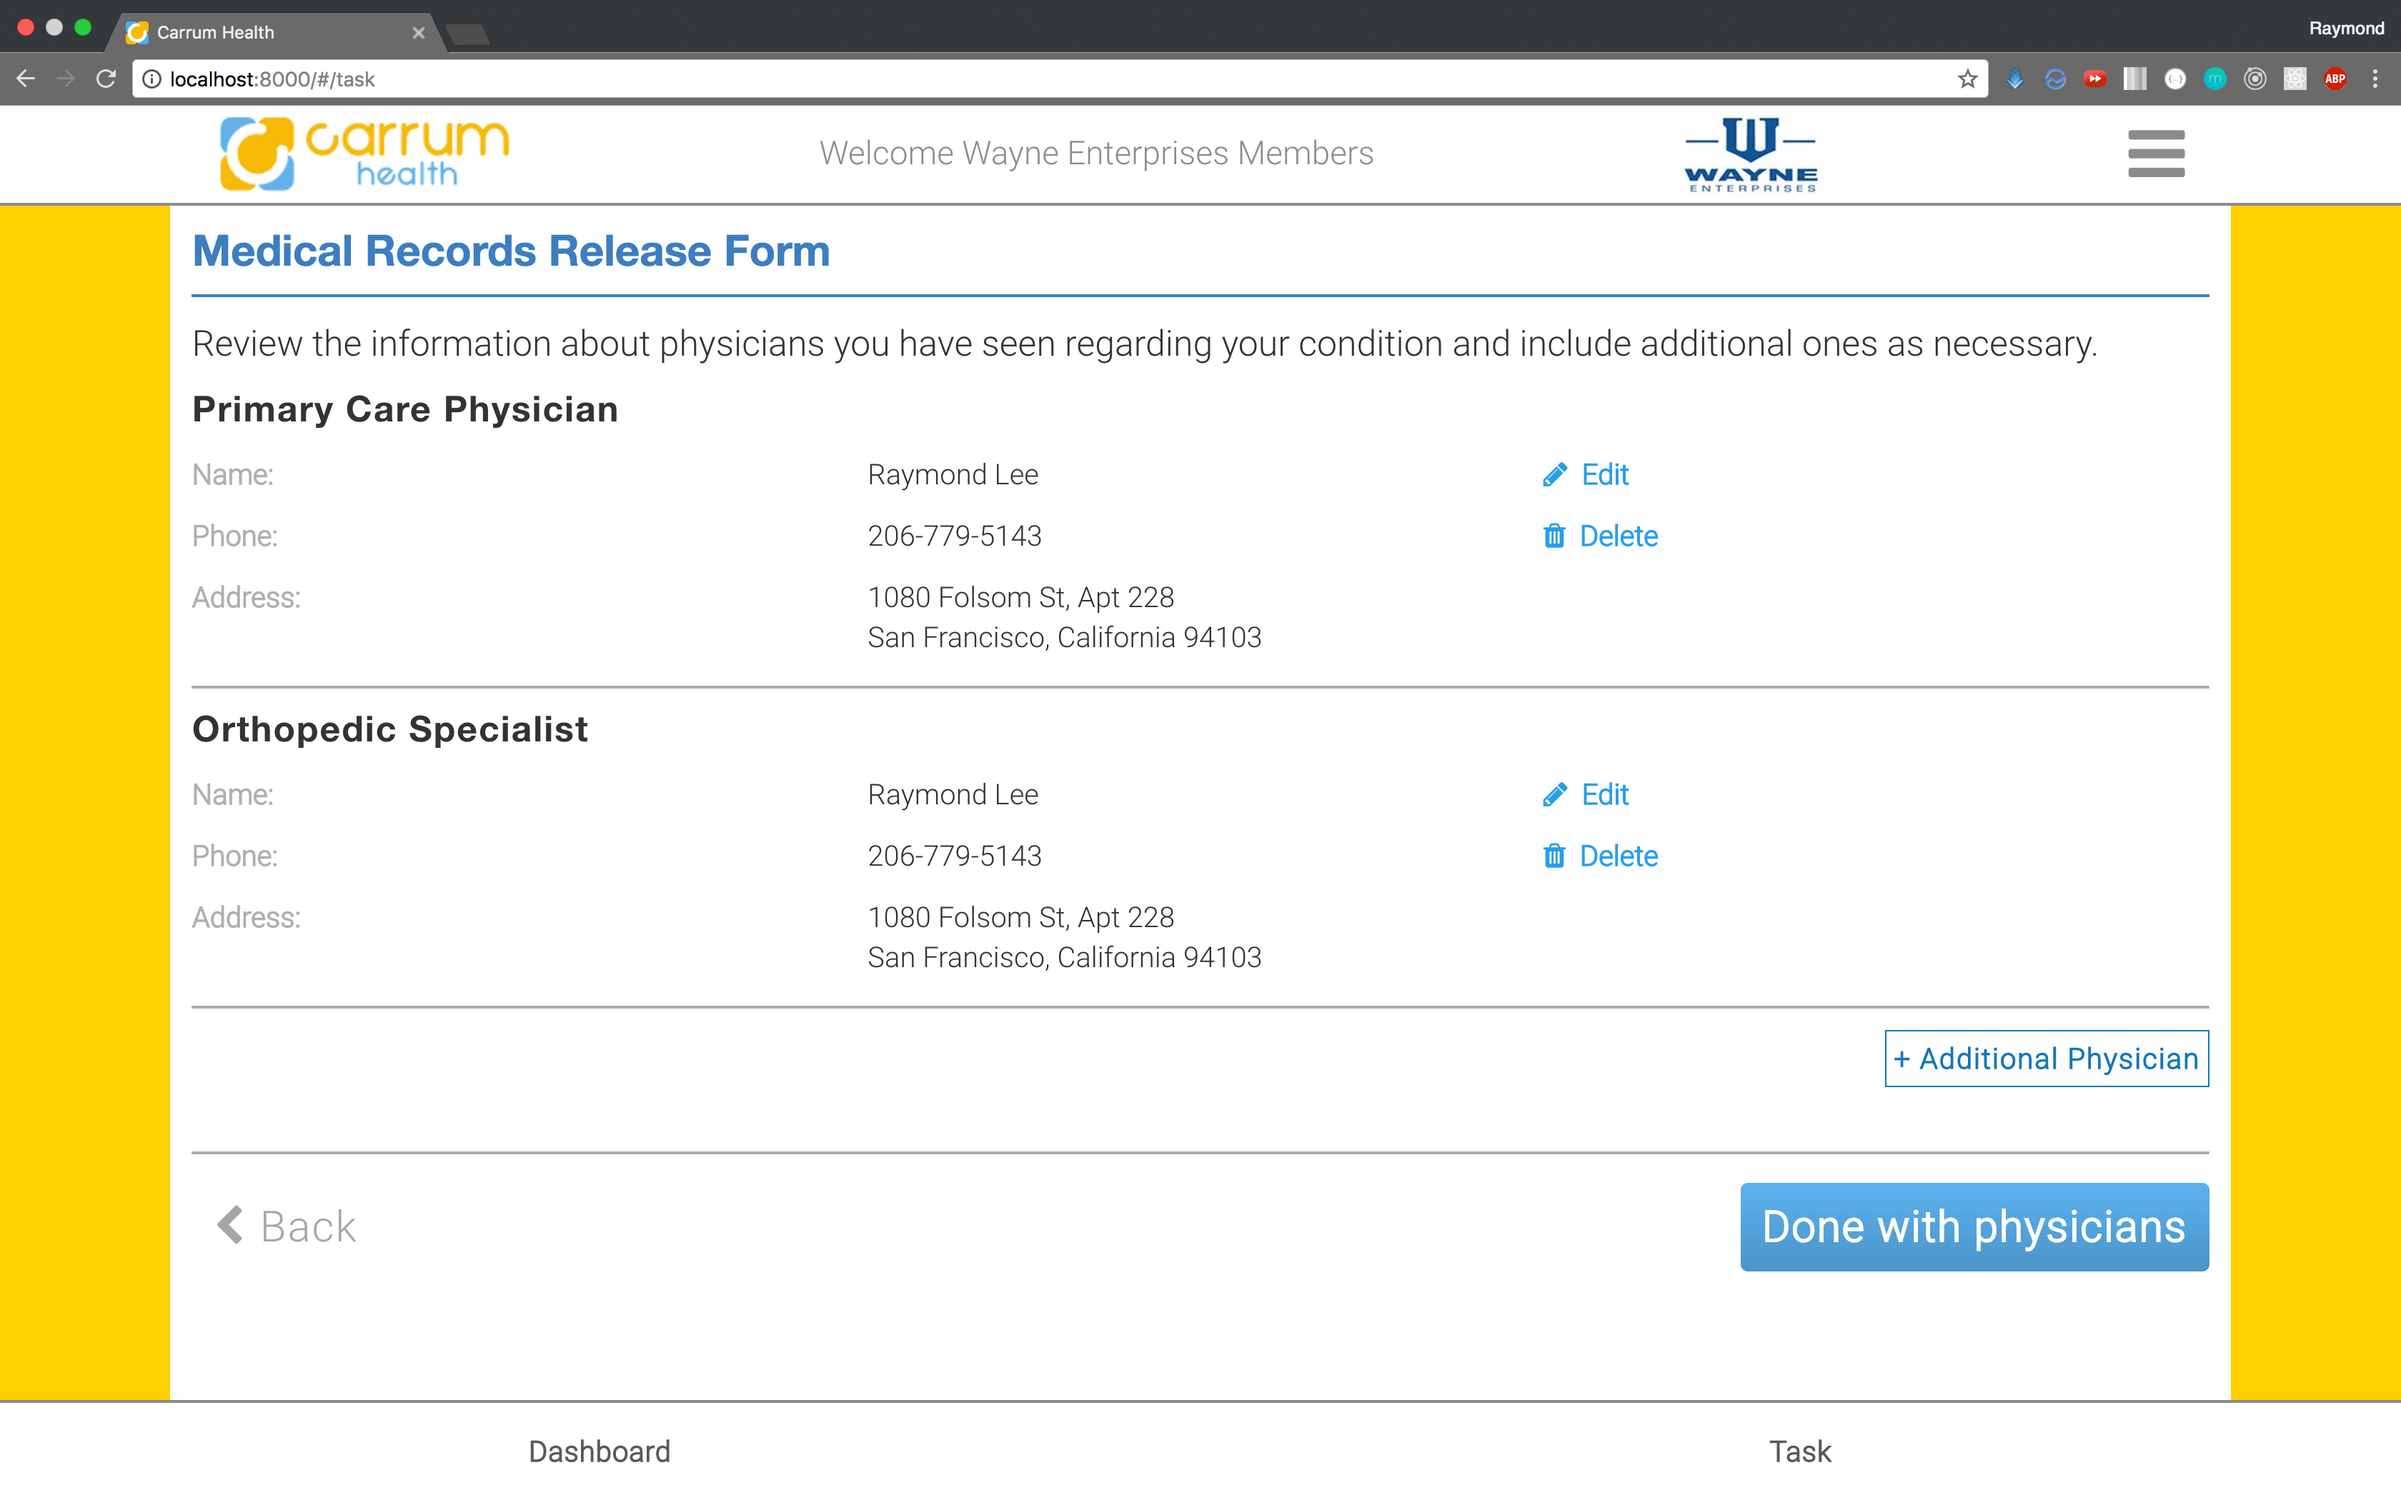
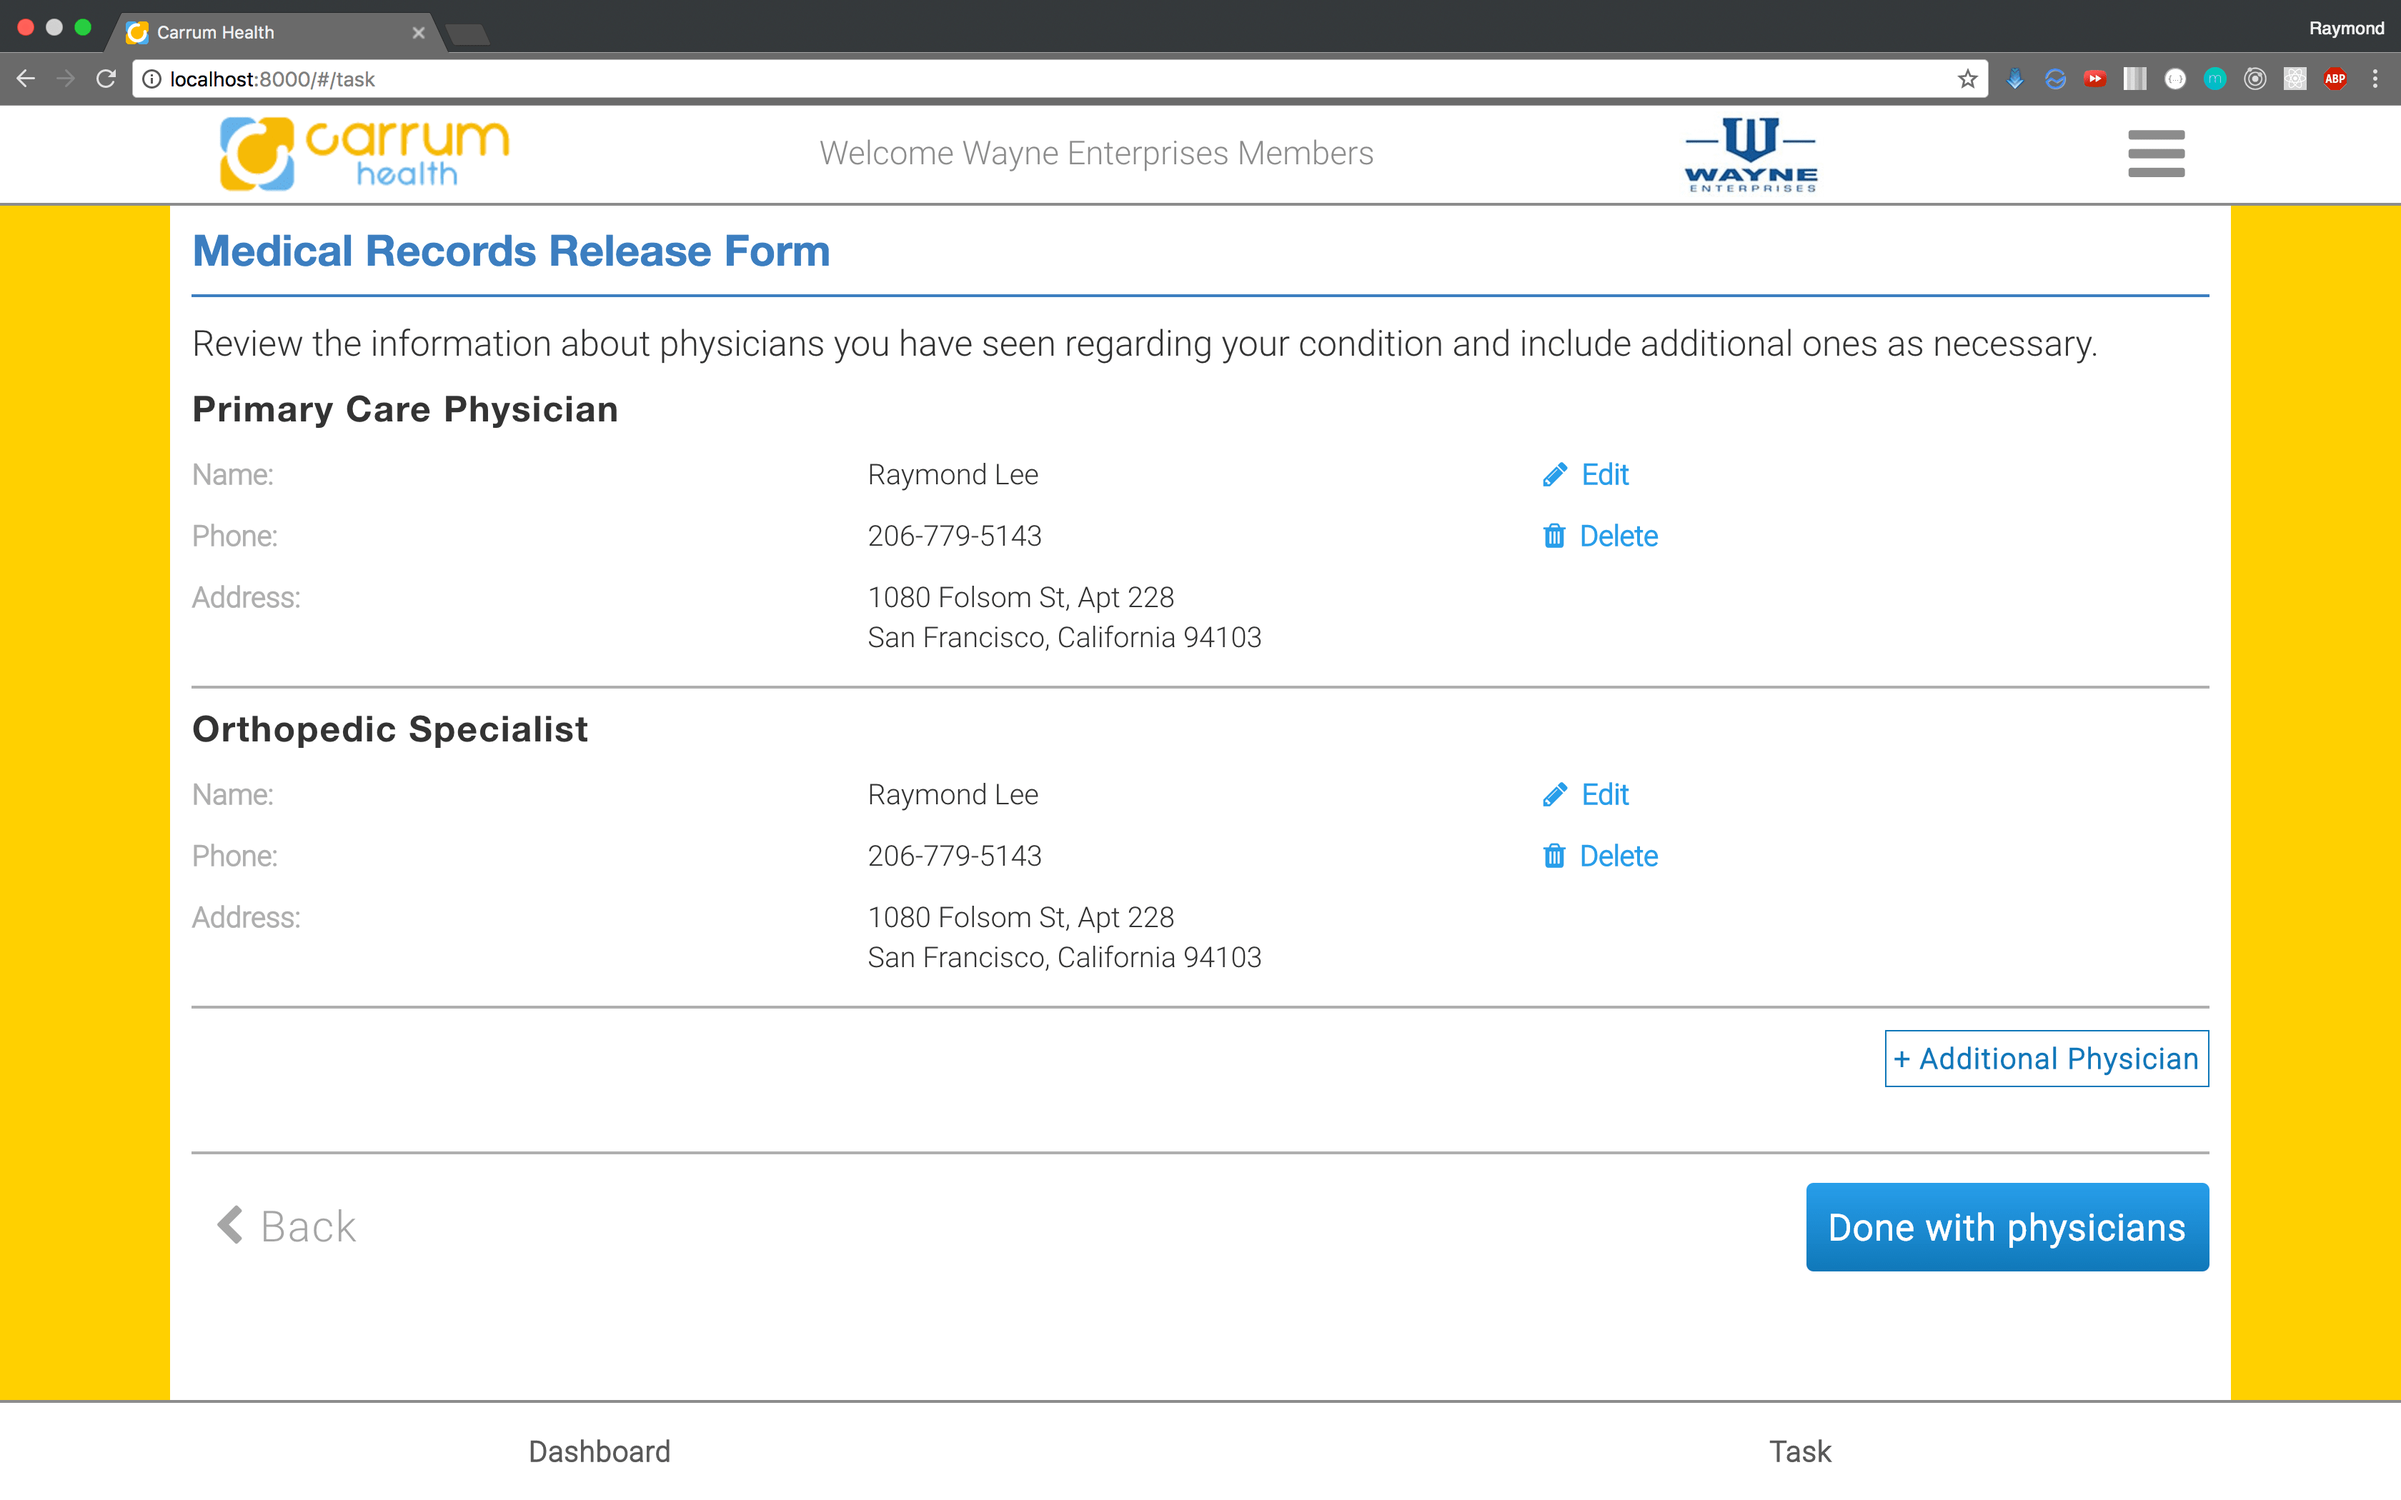
Minor updates on edit/delete physicians

Changed region(s): [[0.7188, 0.7738, 0.9375, 0.8667]]

diff --git a/components/task/task.jsx b/components/task/task.jsx
@@ -53,6 +53,26 @@ class Task extends React.Component {
     this.setState({ specialist });
   }
 
+  deletePcp() {
+    let pcp = false;
+    this.setState({ pcp });
+  }
+
+  deleteOrtho() {
+    let specialist = false;
+    this.setState({ specialist });
+  }
+
+  editPcp() {
+    let step = 2;
+    this.setState({ step });
+  }
+
+  editOrtho() {
+    let step = 3;
+    this.setState({ step });
+  }
+
   update(property) {
     return e => this.setState({
       [property]: e.currentTarget.value
@@ -93,7 +113,8 @@ class Task extends React.Component {
         <div className="form-pcp">
           <span id="question">Who is your Primary Care Physician (PCP)?</span>
           <span id="checkbox-1">
-          <input type="checkbox" checked={!this.state.pcp} id="checkbox1" onClick={this.pcpCheckBox}/>
+          <input type="checkbox" checked={!this.state.pcp}
+                 id="checkbox1" onClick={this.pcpCheckBox}/>
             Don't have PCP
           </span>
           <span id="name-input">
@@ -166,7 +187,8 @@ class Task extends React.Component {
             Who is the orthopedic specialist that you have seen?
           </span>
           <span id="checkbox-2">
-            <input type="checkbox" checked={!this.state.specialist} id="checkbox2" onClick={this.orthoCheckBox}/>
+            <input type="checkbox" checked={!this.state.specialist}
+                   id="checkbox2" onClick={this.orthoCheckBox}/>
             Have not seen a specialist
           </span>
           <span id="name-input">
@@ -250,14 +272,14 @@ class Task extends React.Component {
               <div id="physician-name">
                 <span id="details-label">Name:</span>
                 <span>{this.state.name}</span>
-                <span id="link-fa">
+                <span id="link-fa" onClick={this.editPcp.bind(this)}>
                   <FontAwesome className="fa-pencil" name="pencil" /> Edit
                 </span>
               </div>
               <div id="physician-phone">
                 <span id="details-label">Phone:</span>
                 <span>{this.state.phoneNumber}</span>
-                <span id="link-fa">
+                <span id="link-fa" onClick={this.deletePcp.bind(this)}>
                   <FontAwesome className="fa-trash" name="trash" /> Delete
                 </span>
               </div>
@@ -277,14 +299,14 @@ class Task extends React.Component {
               <div id="physician-name">
                 <span id="details-label">Name:</span>
                 <span>{this.state.orthoName}</span>
-                <span id="link-fa">
+                <span id="link-fa" onClick={this.editOrtho.bind(this)}>
                   <FontAwesome className="fa-pencil" name="pencil" /> Edit
                 </span>
               </div>
               <div id="physician-phone">
                 <span id="details-label">Phone:</span>
                 <span>{this.state.orthoPhoneNumber}</span>
-                <span id="link-fa">
+                <span id="link-fa" onClick={this.deleteOrtho.bind(this)}>
                   <FontAwesome className="fa-trash" name="trash" /> Delete
                 </span>
               </div>
@@ -298,7 +320,7 @@ class Task extends React.Component {
               </div>
             </div>
           </div>)}
-          <div id="additional-physician">
+          <div id="additional-physician" onClick={this.editOrtho.bind(this)}>
             <button>+ Additional Physician</button>
           </div>
         </div>
@@ -308,7 +330,7 @@ class Task extends React.Component {
             <FontAwesome className='fa-chevron-left'
               name='chevron-left' />Back
           </button>
-          <button id="continue-button">
+          <button id="continue-button-2">
             Done with physicians
           </button>
         </div>

diff --git a/assets/stylesheets/task.css b/assets/stylesheets/task.css
@@ -45,7 +45,21 @@
   cursor: pointer;
 }
 
-#continue-button:hover {
+#continue-button-2 {
+  background: linear-gradient(180deg, #4a9ee4, #3278b4);
+  font-size: 25px;
+  font-family: 'Roboto', sans-serif;
+  letter-spacing: 1px;
+  font-weight: bold;
+  color: white;
+  padding: 10px 15px;
+  border-radius: 5px;
+  margin-top: 20px;
+  border: none;
+  cursor: pointer;
+}
+
+#continue-button:hover, #continue-button-2:hover {
   opacity: 0.8;
 }
 
@@ -191,6 +205,9 @@ input[type=checkbox] {
 
 #link-fa {
   color: #4a9ee4;
+}
+
+#link-fa:hover {
   cursor: pointer;
   font-weight: bold;
 }
